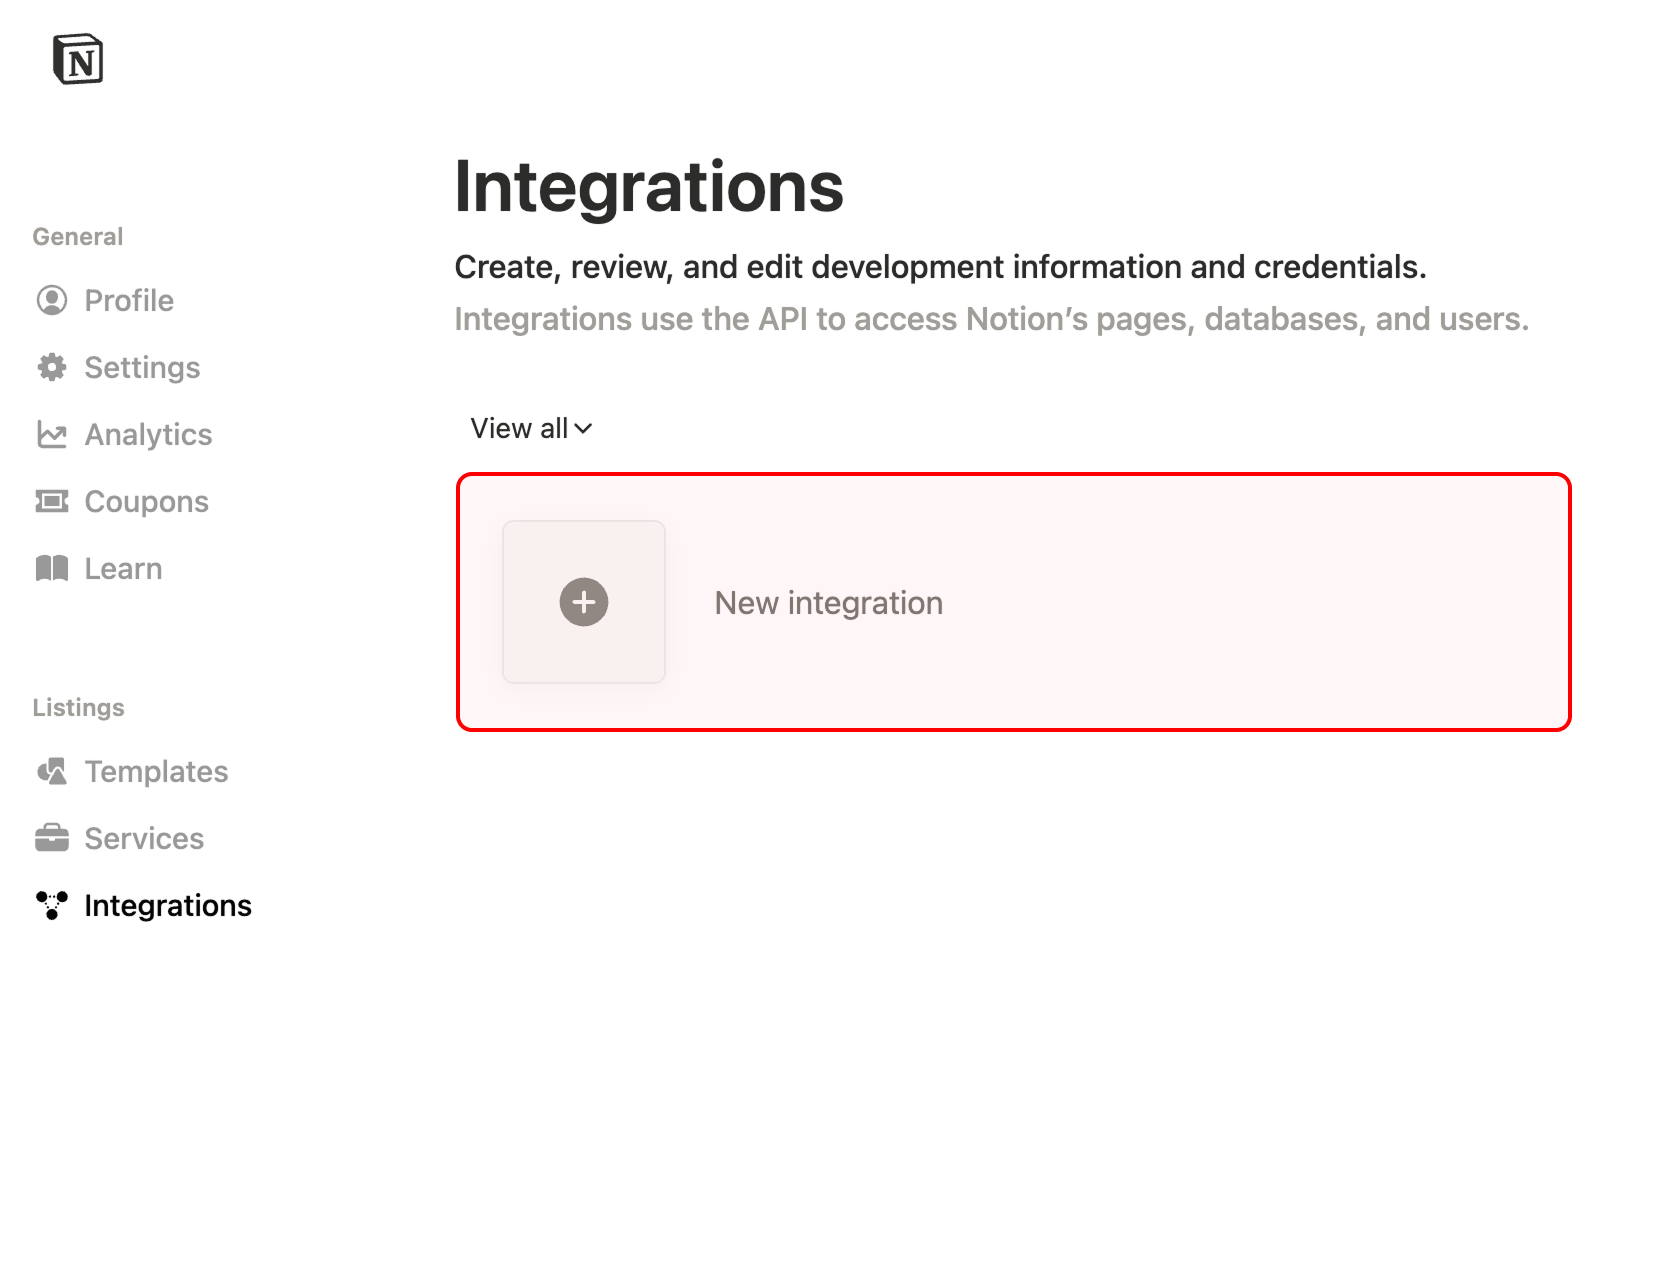
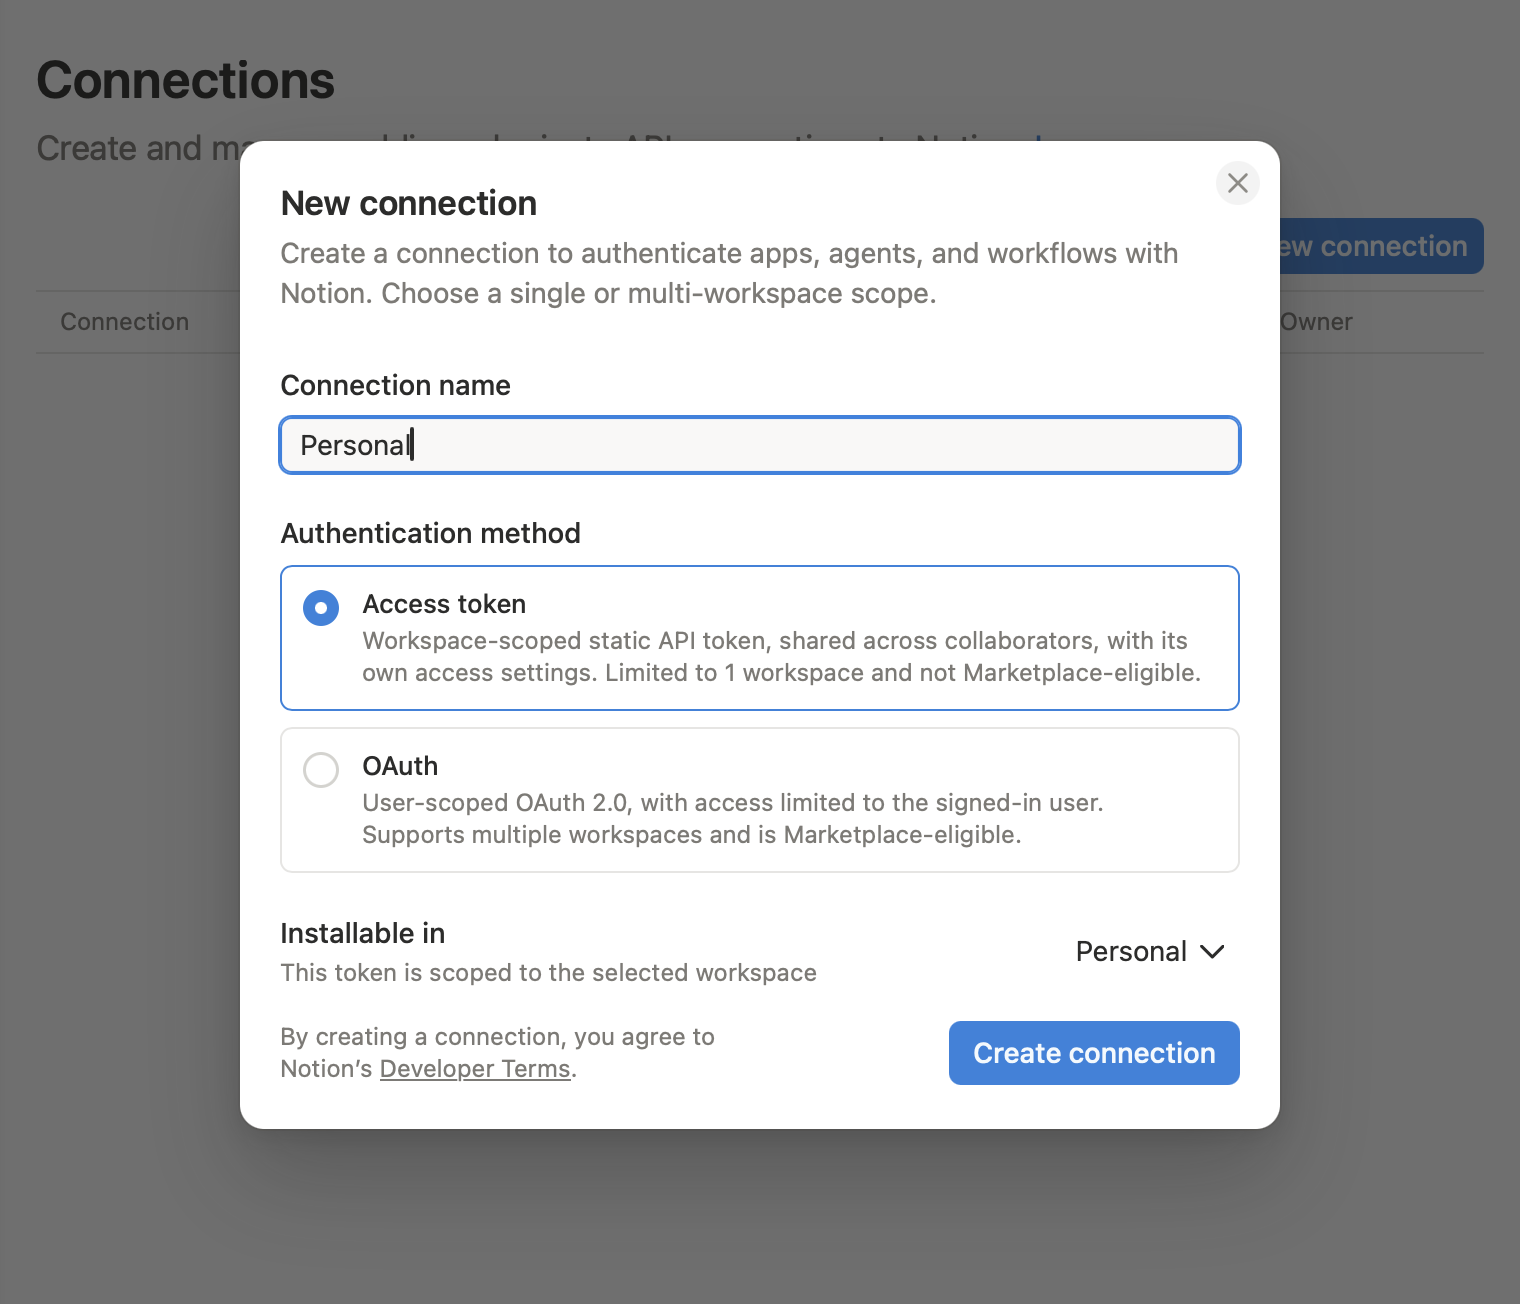
Notion: Update screenshots and instructions

diff --git a/en/Import notes/Import from Notion.md b/en/Import notes/Import from Notion.md
@@ -16,25 +16,27 @@ To access your Notion data via the API you need an integration token. This step 
 
 The token is a long string of numbers and letters typically starting with `ntn_...` that will allow you to download your data from Notion.
 
-1. Sign into your [Notion Integrations](https://www.notion.so/profile/integrations/internal) dashboard.
-2. Choose **New integration**.
+1. Sign into your [Notion Connections](https://app.notion.com/developers/connections) dashboard.
+2. Choose **New connection**.
+	1. Give your connection a name, e.g. "Personal". Any name can be used.
+	2. Choose **Access token** as the authentication method.
+	3. Choose the workspace you want to export as **Installable in**.
 
 ![[notion-integration.png#interface]]
 
-2. Give your integration a name, e.g. "Personal". Any name can be used.
-3. Choose the workspace you want to export.
-4. Click **Save** and continue to **Configure integration settings**.
-5. In the **Configuration** tab your API token is accessible in the **Internal Integration Secret** field. 
-6. Select **Show** then **Copy**.
-7. Save the token to a safe place like your password manager.
+3. Click **Create connection**.
+4. In the **Configuration** tab your API token is accessible in the **Access token** field. 
+5. Select **Show** then **Copy**.
+6. Save the token to a safe place like your password manager.
 
 ![[notion-token.png#interface]]
 
-Next, give your integration access to the Notion pages and databases you want to import.
+Next, give your connection access to the Notion pages and databases you want to import.
 
-1. Go to the **Access** tab of the integration you just created.
-2. Click **Edit access**.
-3. Add the pages and databases that you want to import.
+1. Go to the **Content access** tab of the connection you just created.
+2. Add the pages and databases that you want to import.
+
+![[notion-content.png#interface]]
 
 You can now convert your data using Obsidian Importer.
 
@@ -47,7 +49,7 @@ You will need the official Obsidian [[Importer]] plugin, which you can [install 
 3. Enable the Importer plugin.
 4. Open the **Importer** plugin using the command palette or ribbon icon.
 5. Under **File format** select **Notion (API)**
-6. Under **API token**, paste your **Internal Integration Secret** from Notion.
+6. Under **API token**, click **Link...** to add a new secret. For the **ID**, give it a name like `notion`, and for the **Secret** paste your **Internal Integration Secret** from Notion.
 7. Click **Load** to choose the databases and pages you want to import.
 8. Review and edit the import options.
 9. Select **Import** and wait until import is complete
